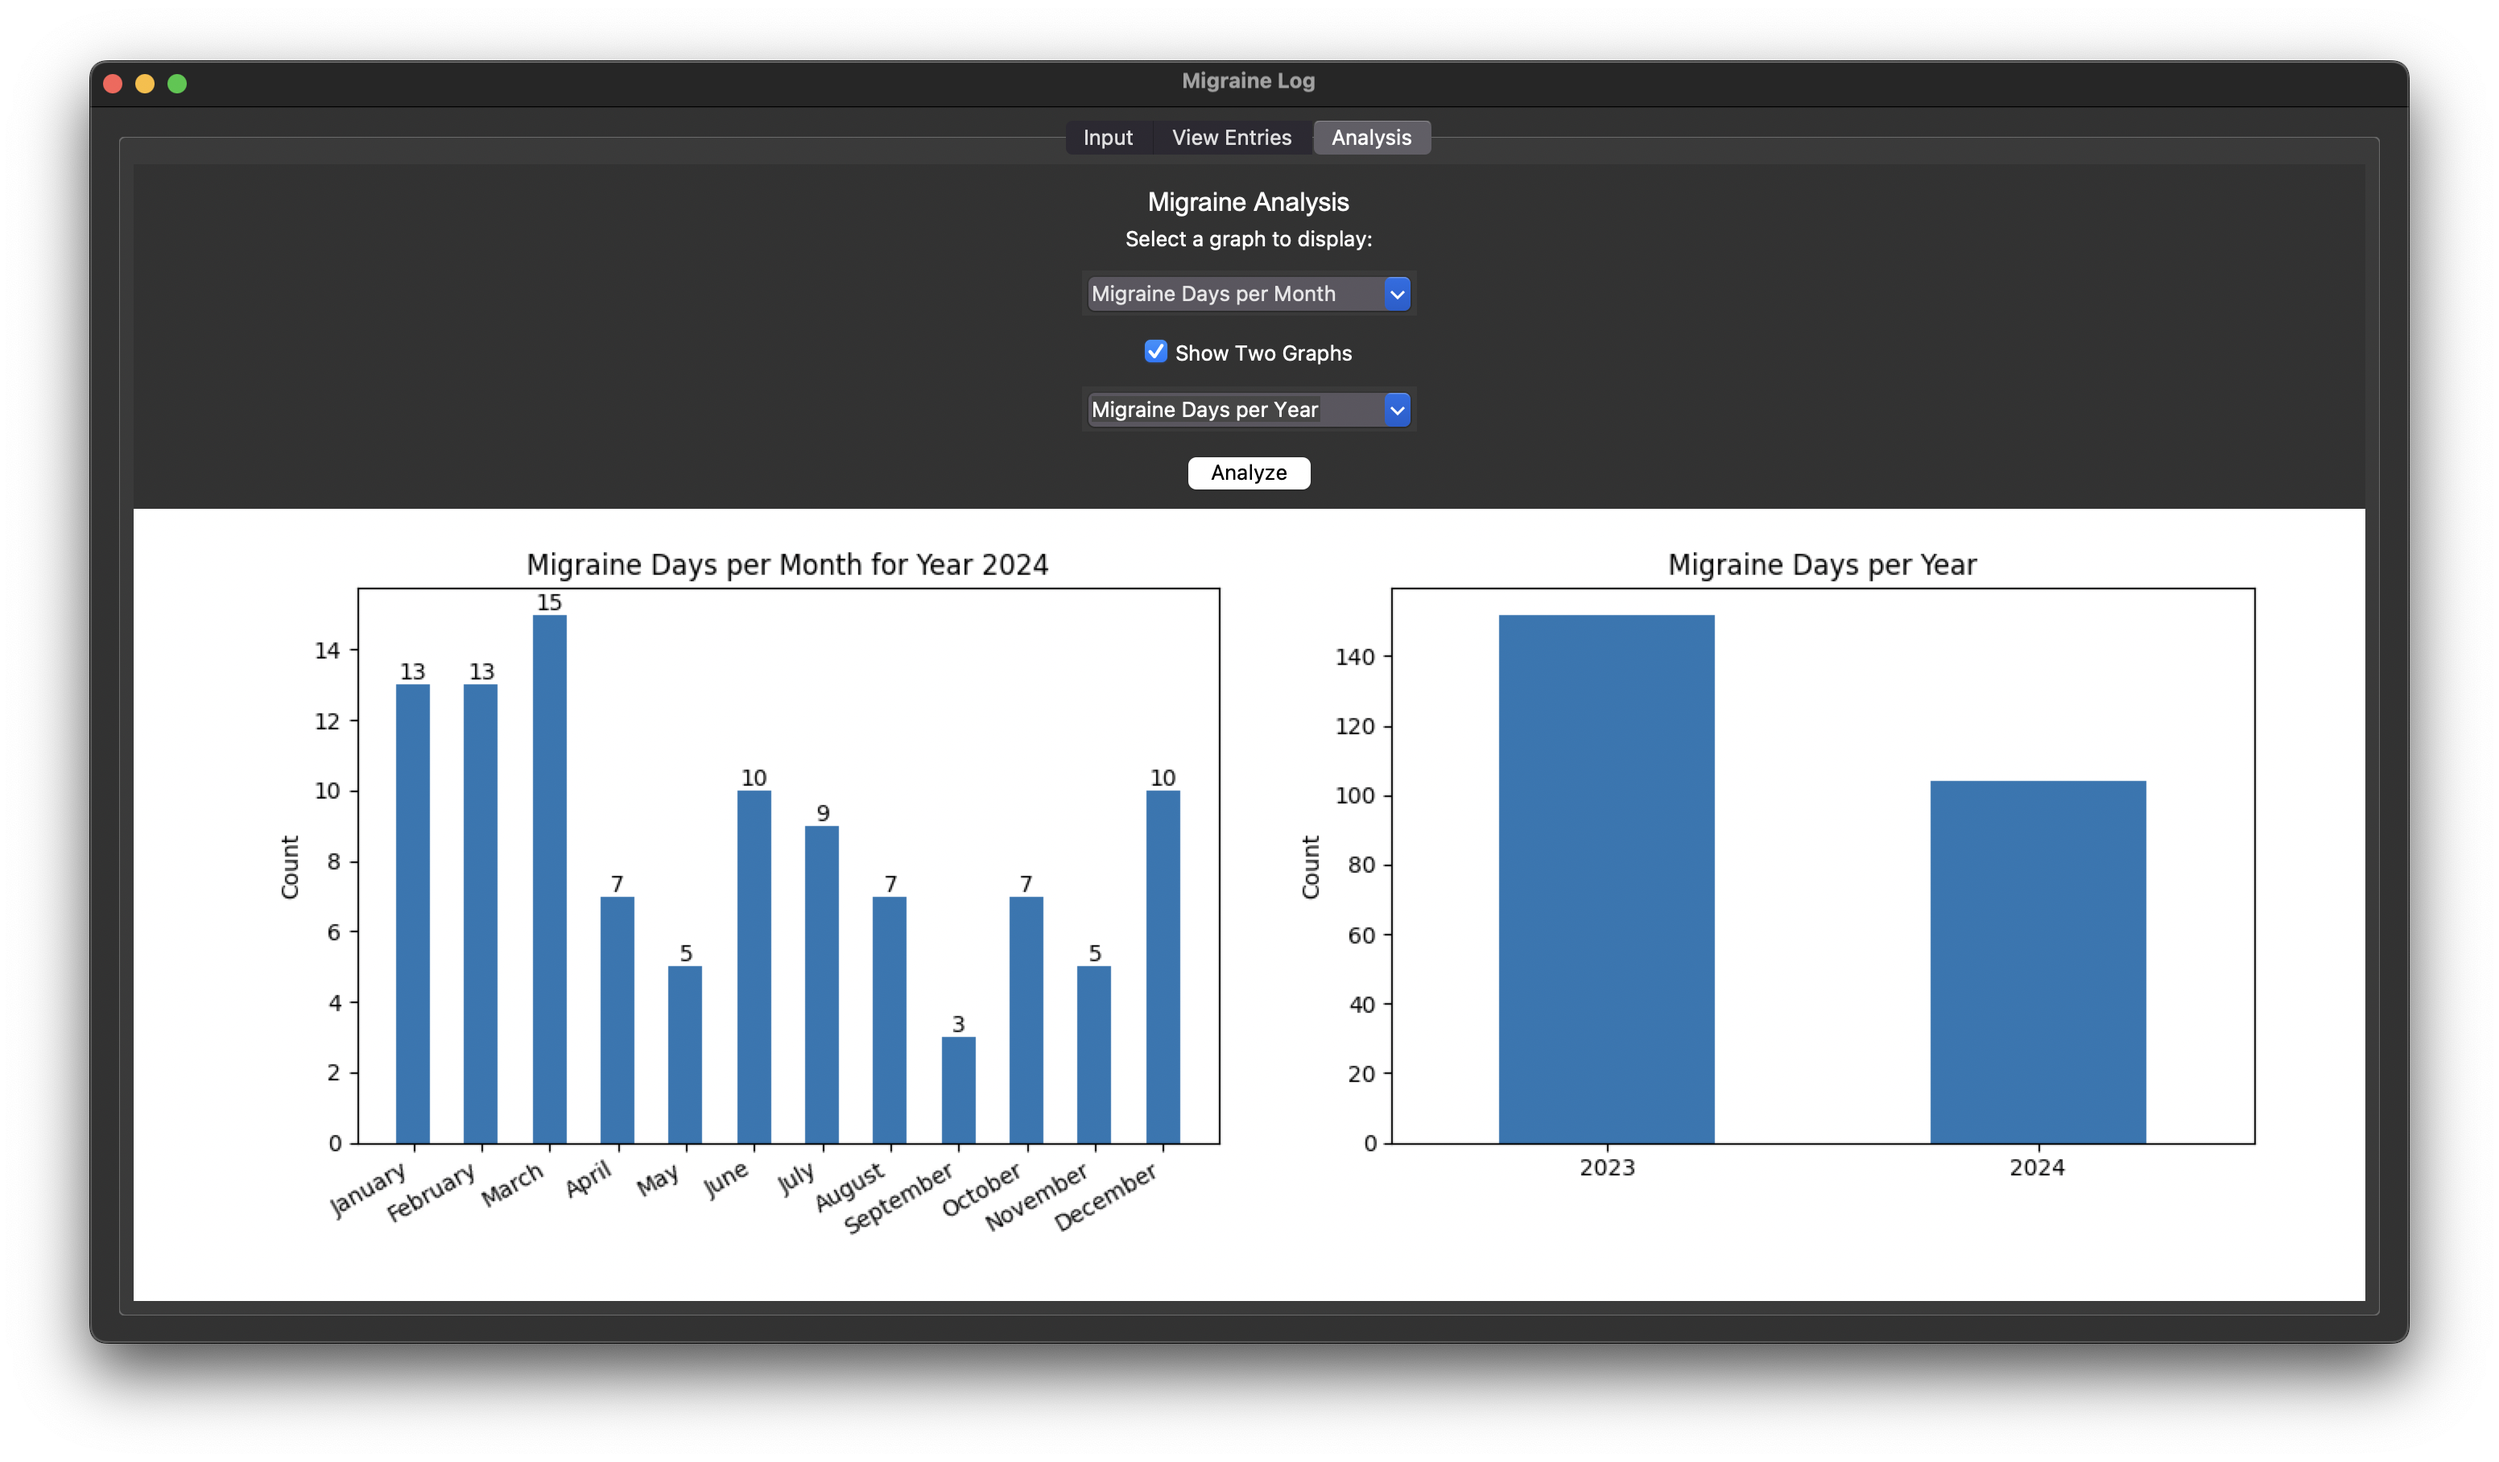
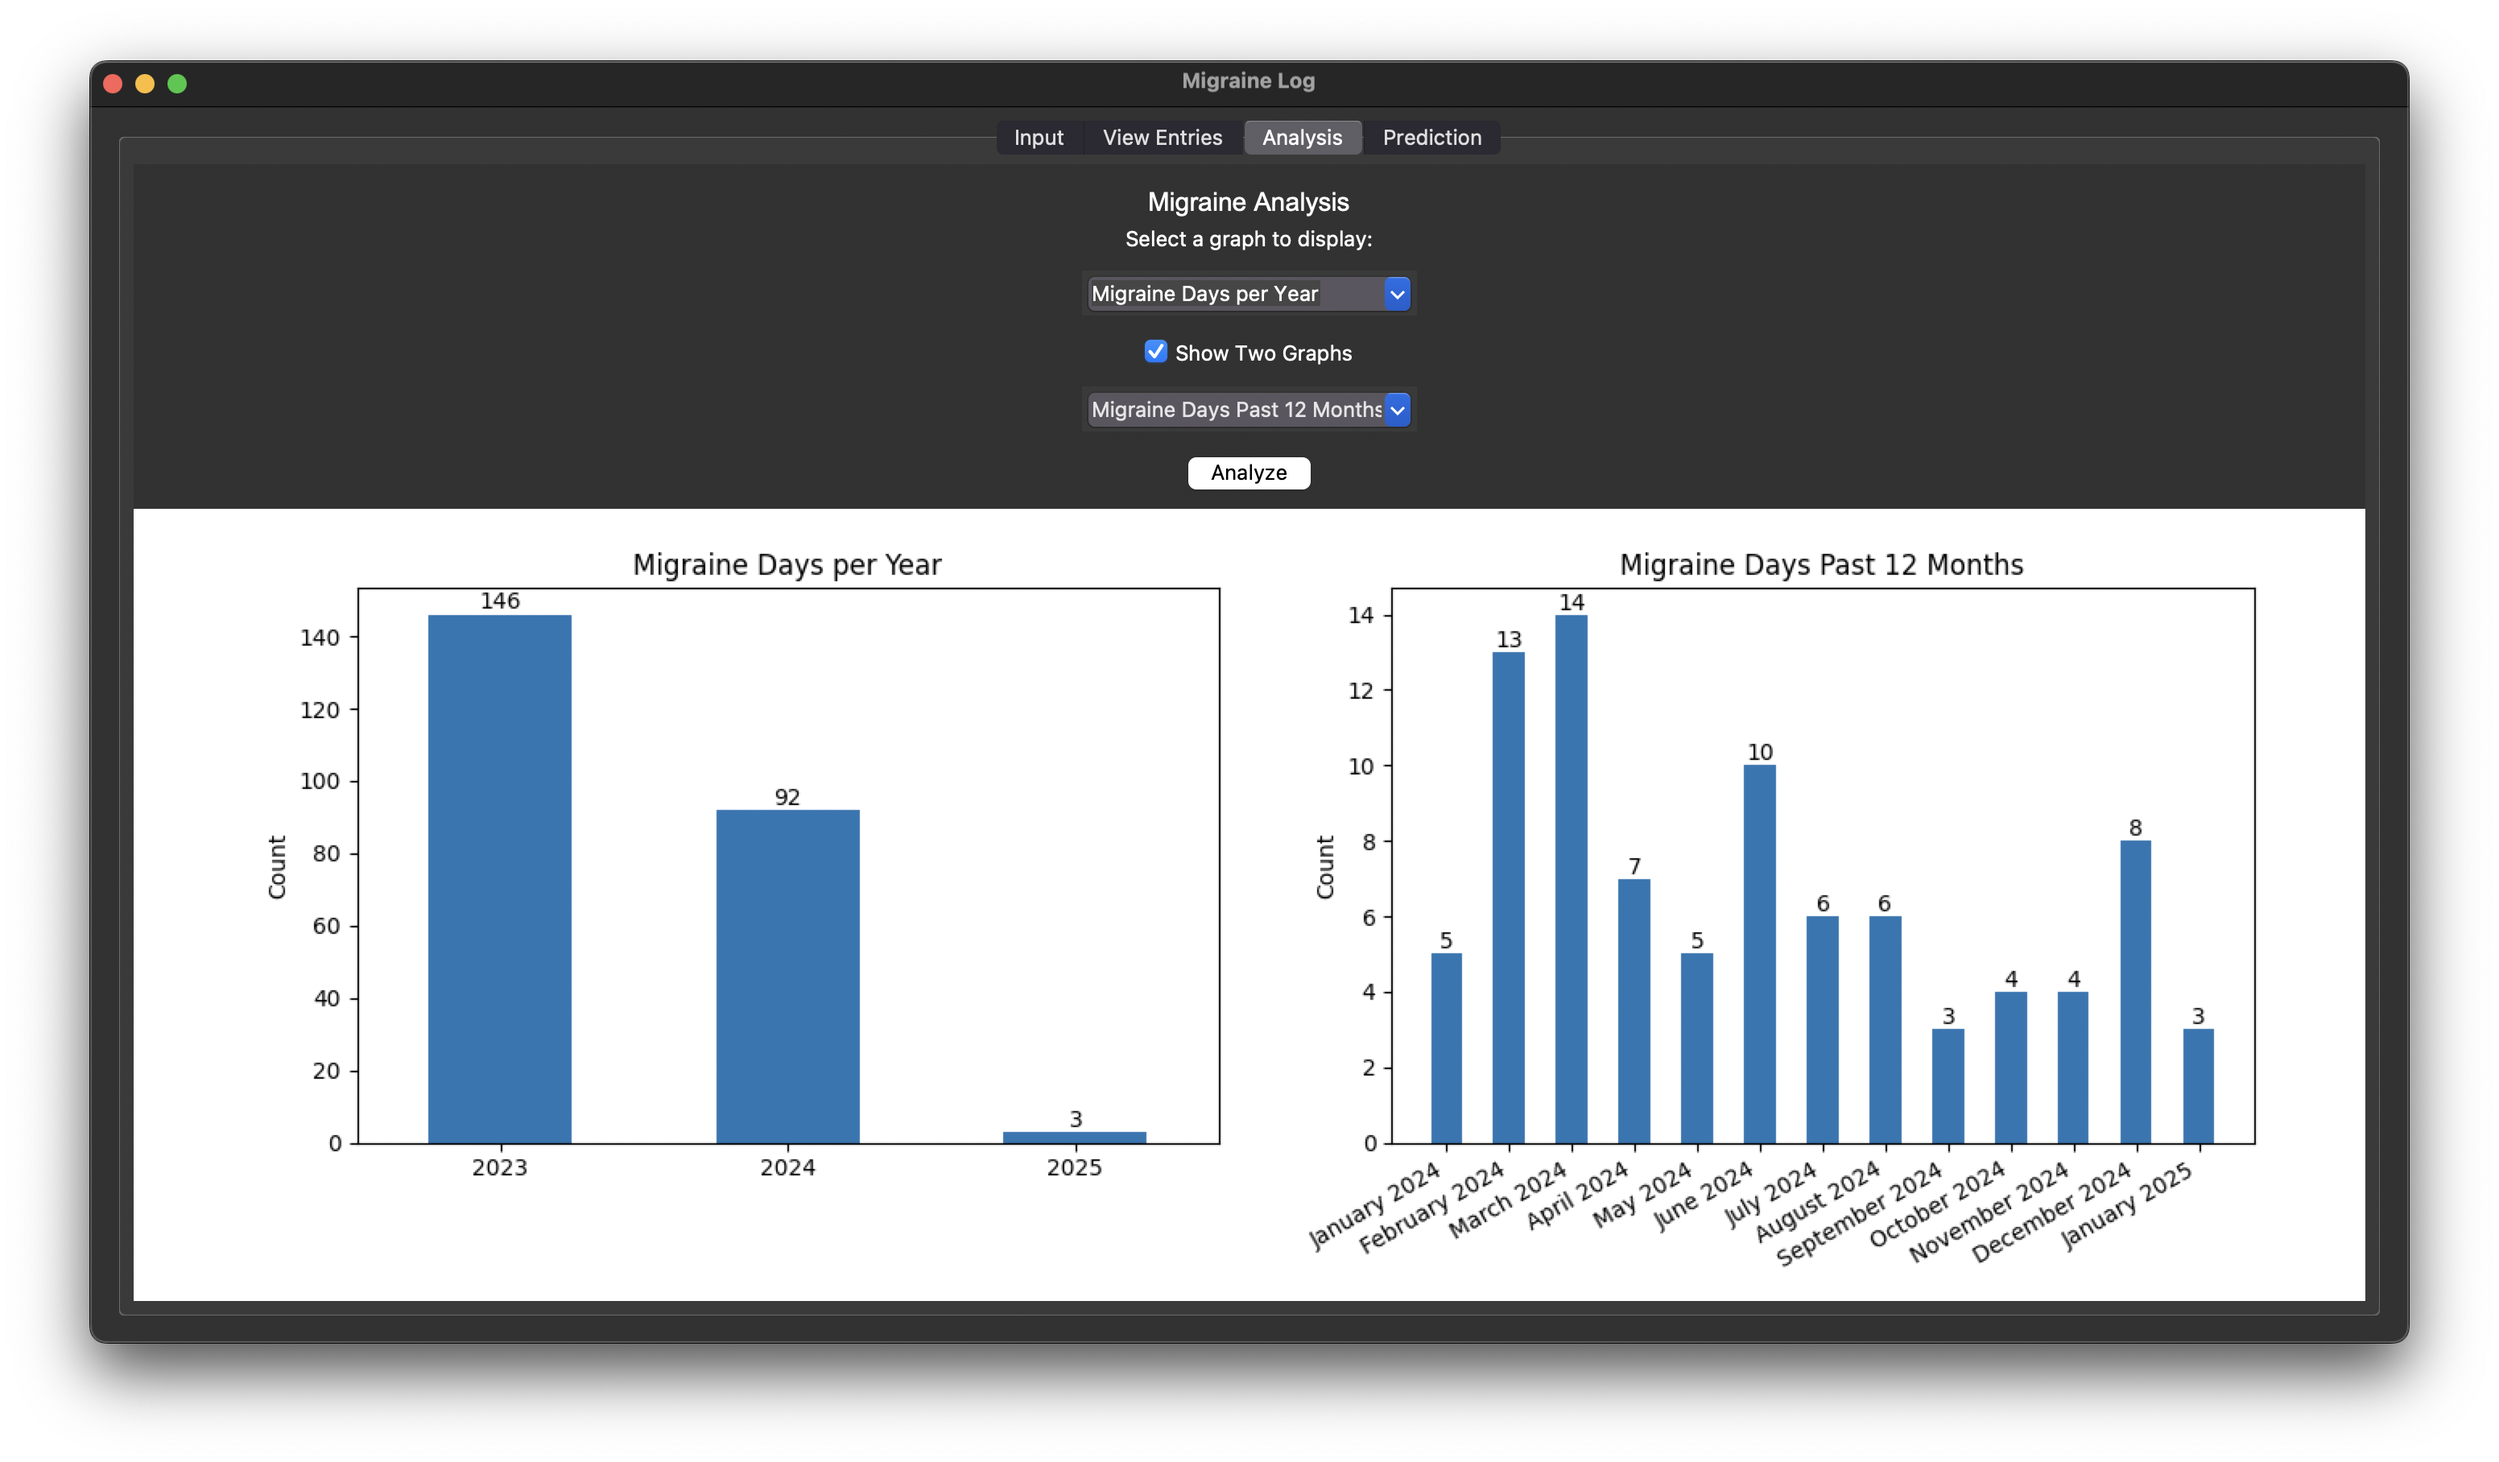
Updated README.md
Modified .gitignore to not ignore screenshots in screenshots directory.
Updated and added screenshots to be embedded in README.
Added LICENSE file.
README updated with more information and screenshots.

diff --git a/README.md b/README.md
@@ -1,12 +1,13 @@
 # Migraine Log
 
-This project is a Tkinter-based GUI application for logging and analyzing migraine occurrences. It allows users to input migraine instance details, view logged entries, and perform analysis on the data with the goal of facilitating forecasting based on machine learning algorithms.
+This project is a Tkinter-based GUI application for logging and analyzing migraine occurrences. It allows users to input migraine instance details, view logged entries, and perform analysis and predict future migraines based on machine learning algorithms.
 
 ## Features
 
 - **Input Frame**: Allows users to input details about their migraines, including date, time, pain level, medication, dosage, triggers, notes, and location.
 - **View Frame**: Displays the logged migraine entries in a tabular format.
 - **Analysis Frame**: Provides graphical analysis of the migraine data, including migraine days per month, migraine days per year, and medication usage.
+- **Prediction Frame**: Predicts the likelihood of a migraine based on the user's accumulated migraine frequency data, as well as current and historical weather data using a trained machine learning model.
 
 ## Requirements
 
@@ -16,8 +17,11 @@ The project requires the following Python packages:
 - `geocoder`
 - `matplotlib`
 - `pytz`
+- `meteostat`
+- `scikit-learn`
+- `joblib`
 
-You can install these dependencies using the following command:
+These dependencies may be installed using the following command:
 
 ```sh
 pip install -r requirements.txt
@@ -37,13 +41,18 @@ pip install -r requirements.txt
 
 4. **Analyze Data**: Go to the "Analysis" tab to perform graphical analysis on the migraine data. Select the type of graph you want to display and click the "Analyze" button.
 
+5. **Predict Migraines**: Use the "Prediction" tab to predict the likelihood of a migraine based on the input data and current weather conditions. Click the "Predict" button to see the prediction result.
+
 ## File Structure
 
 - `main.py`: The main entry point of the application; all other frames are integrated here.
 - `input_frame.py`: Contains the `InputFrame` class for inputting details.
 - `view_frame.py`: Contains the `ViewFrame` class for viewing logged entries.
 - `analysis_frame.py`: Contains the `AnalysisFrame` class for analyzing data.
+- `prediction_frame.py`: Contains the `PredictionFrame` class for predicting migraines.
 - `migraine_log.csv`: The CSV file where data is stored.
+- `weather_data.csv`: The CSV file where weather data is stored.
+- `combined_data.csv`: The CSV file where combined migraine and weather data is stored.
 - `requirements.txt`: Lists the required Python packages and allows easy installation.
 
 ## Screenshots
@@ -58,9 +67,25 @@ Cannot be shown for reasons of data privacy.
 ### Analysis Frame
 ![Analysis Frame](screenshots/analysis_frame.png)
 
+### Prediction Frame
+![Prediction Frame](screenshots/prediction_frame.png)
+
+## Testing
+To run the tests, use the following commad:
+
+    ```sh
+    python -m unittest discover tests
+    ```
+
+To run a specific test file, use the following command:
+    ```sh
+    python -m unittest tests.test_input
+    ```
+    Modify tests.test_{x} for each file in tests/
+
 ## License
 
-More information coming soon.
+This project is licensed under the MIT License - see the [LICENSE](LICENSE) file for details.
 
 ## Acknowledgements
 
@@ -69,7 +94,15 @@ More information coming soon.
 - [Matplotlib](https://matplotlib.org/) for plotting graphs.
 - [Geocoder](https://geocoder.readthedocs.io/) for location services.
 - [Pytz](https://pythonhosted.org/pytz/) for timezone handling.
+- [Meteostat](https://dev.meteostat.net/) for weather data.
+- [Scikit-learn](https://scikit-learn.org/) for machine learning algorithms.
+- [Joblib](https://joblib.readthedocs.io/) for model serialization.
 
 ## Author
 
 This project was created by Aresh Tajvar.
+
+- **GitHub**: [github.com/AreTaj](https://github.com/AreTaj)
+- **LinkedIn**: [linkedin.com/in/aresh-tajvar](https://linkedin.com/in/aresh-tajvar)
+
+Feel free to reach out if you have any questions or suggestions!
